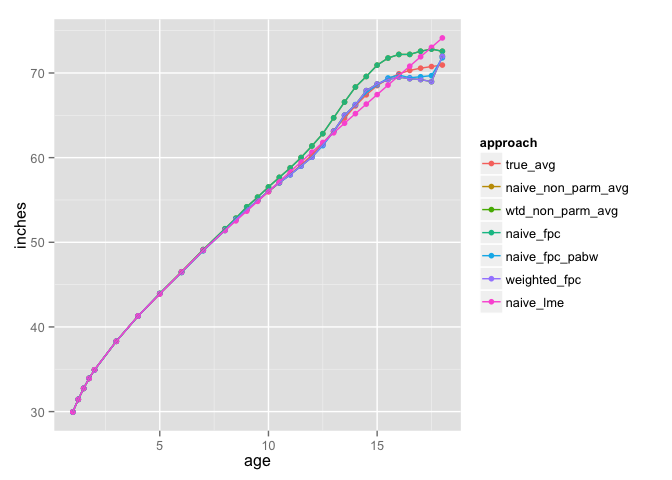
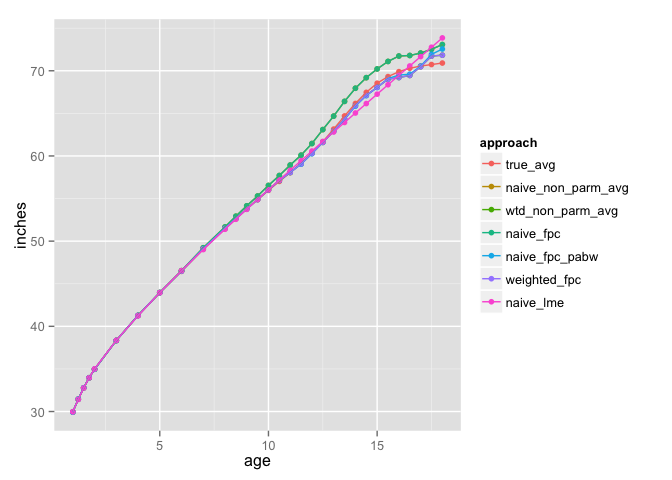
added the 1000simulations results

diff --git a/readMe.md b/readMe.md
@@ -15,8 +15,8 @@ install_github("swihart/wfpca")
 library(wfpca)
 d<-prep_data()
 head(d)
-over_samp_mat<-sample_data(d,1000, seed=401)
-with_ses <- calculate_ses(over_samp_mat, slope=100, intercept=22)
+over_samp_mat<-sample_data(d,1000, seed=101)
+with_ses <- calculate_ses(over_samp_mat, slope=100, intercept=12)
 long <-make_long(with_ses)
 head(long)
 censored <- apply_censoring(long, ses_coef=.1, age_coef=.2)
@@ -42,7 +42,7 @@ wtd_non_parm_avg$approach <- "wtd_non_parm_avg"
 ##c)  naive-FPC, 
 age_vec <- c(sort(unique(long$age)))
 unwtd_fncs <- dcast(data=wtd_trajectories, formula= newid~age, value.var="inches")
-fpca_unwtd_fncs <- fpca.face(Y=as.matrix(unwtd_fncs[,-1]), argvals=age_vec, knots=29)
+fpca_unwtd_fncs <- fpca.face(Y=as.matrix(unwtd_fncs[,-1]), argvals=age_vec, knots=26)
 naive_fpc <- data.frame(age=age_vec, V1=fpca_unwtd_fncs$mu, approach="naive_fpc")
 ##d) naive-FPC-post-adjusted-by-weights, and 
 pabw <- dcast(data=wtd_trajectories, formula= newid~age, value.var="stipw01.n")
@@ -59,7 +59,7 @@ weighted_fpc <- data.frame(age=age_vec, V1=fpca_wtd_fncs$mu, approach="weighted_
 #naive_lme<-lmer(inches ~ ns(age, df=5) + (1+age|newid), data=observed_with_stipw)
 #predict(naive_lme, newdata=data.frame(age=age_vec), level=0)
 library(nlme)
-naive_lme_model<-lme(inches ~ ns(age, df=10), random=~age|newid, data=observed_with_stipw)
+naive_lme_model<-lme(inches ~ ns(age, df=5), random=~age|newid, data=observed_with_stipw)
 predict(naive_lme_model, newdata=data.frame(age=age_vec), level=0)
 naive_lme <- data.frame(age=age_vec, V1=predict(naive_lme_model, newdata=data.frame(age=age_vec), level=0), approach="naive_lme")
 
@@ -117,13 +117,21 @@ round(results,2)
 
 ```
 ##   naive_non_parm_avg wtd_non_parm_avg naive_fpc naive_fpc_pabw
-## 1                1.3              0.5       1.3           0.36
+## 1               1.13             0.35      1.13           0.43
 ##   weighted_fpc naive_lme
-## 1          0.5      0.84
+## 1         0.35      0.82
 ```
 
 
+We did a simulation for a 1000 instances and got:
 
+```r
+# > round(colMeans(rbind.all.files),2)
+# naive_non_parm_avg   wtd_non_parm_avg          naive_fpc     naive_fpc_pabw       weighted_fpc 
+#               1.05               0.45               1.05               0.48               0.45 
+#          naive_lme 
+#               0.86 
+```
 
 
 
@@ -137,6 +145,6 @@ ggplot(growth.mlt, aes(x=Var1, y=inches, group=Var2)) +
   geom_line() + facet_wrap(~ L1)
 ```
 
-![plot of chunk unnamed-chunk-3](./readMe_files/figure-html/unnamed-chunk-3.png) 
+![plot of chunk unnamed-chunk-4](./readMe_files/figure-html/unnamed-chunk-4.png) 
 
 
